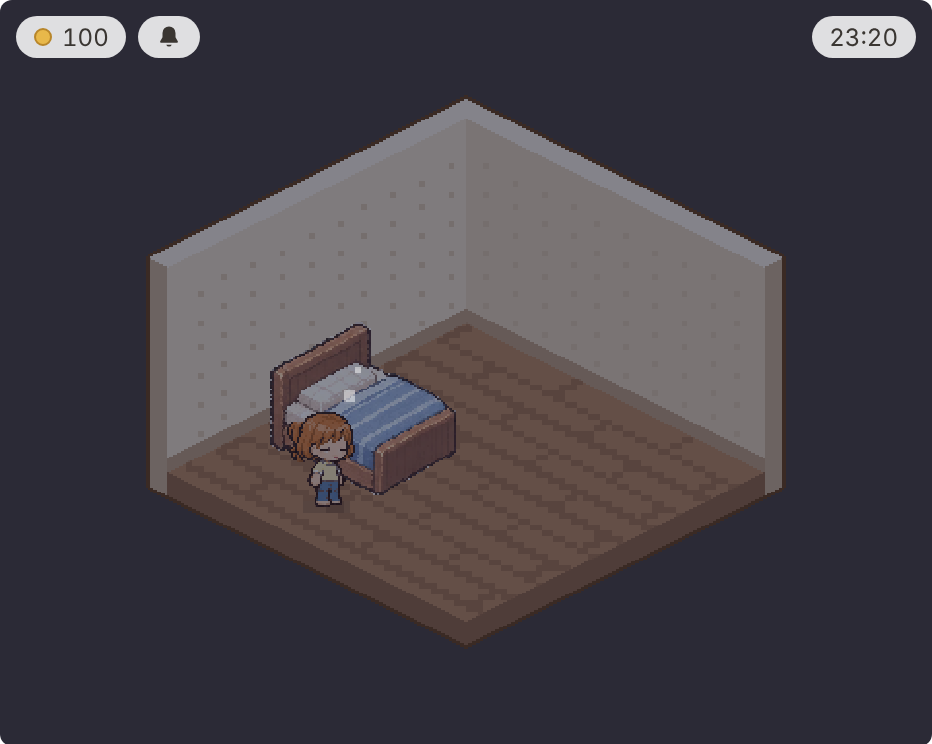
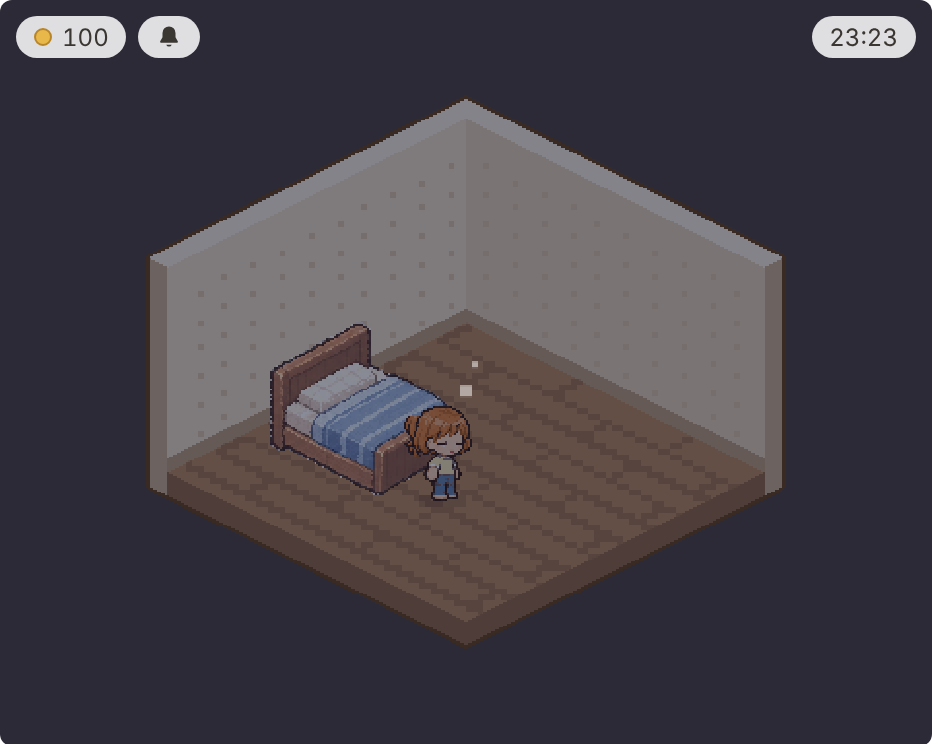
미닫이문을 바닥에 서는 문 크기로 키우고 벽 기울기에 맞게 그림 보정
Claude-Session: https://claude.ai/code/session_017aF2aZeAYzMjvegGtH2ZQ4

Changed region(s): [[0.3112, 0.5255, 0.4045, 0.6801], [0.4356, 0.5255, 0.529, 0.6801], [0.9335, 0.0309, 0.9646, 0.0618]]

diff --git a/game.js b/game.js
@@ -972,7 +972,8 @@ function makeItem(p) {
   const f = FURNITURE[p.id];
   const wall = f.type === "wall";
   const rot = wall ? 0 : p.rot != null ? p.rot : p.flip ? 1 : 0; // 예전 저장은 flip
-  return Object.assign({}, f, { id: p.id, x: p.x, y: p.y, z: p.z, flip: wall && !!p.flip, rot, closed: !!p.closed, off: p.off, lightAt: p.lightAt });
+  // 문(floorWall)은 예전 저장도 바닥으로
+  return Object.assign({}, f, { id: p.id, x: p.x, y: p.y, z: f.floorWall ? 0 : p.z, flip: wall && !!p.flip, rot, closed: !!p.closed, off: p.off, lightAt: p.lightAt });
 }
 
 function refreshItems() {
@@ -4191,7 +4192,7 @@ function rectsOverlap(p, q) {
 function wallValid(item) {
   const wall = wallOf(item), r = wallRect(item);
   if (wall === "round") return false; // 둥근 벽에는 걸 수 없음
-  if (r.a1 < 1 || r.a2 > wallLength(wall) - 1 || r.z1 < 3) return false;
+  if (r.a1 < 1 || r.a2 > wallLength(wall) - 1 || r.z1 < (item.floorWall ? 0 : 3)) return false; // 문(floorWall)은 바닥에 붙음
   const top = wall === "right" ? rightWallTop() : Math.min(leftWallTop(r.a1), leftWallTop(r.a2));
   if (r.z2 > top - 1) return false;
   if (wallObstacles(wall).some((o) => rectsOverlap(r, o))) return false;
@@ -4256,7 +4257,7 @@ function moveDrag(p) {
     orig = drag.orig;
     const da = cur.a - drag.start.a;
     const top = drag.wall === "right" ? rightWallTop() : (room.wallHeight || room.peakHeight);
-    item.z = clamp(snap(orig.z + cur.z - drag.start.z), 3 - e.z1, top - e.z2 - 1);
+    item.z = item.floorWall ? 0 : clamp(snap(orig.z + cur.z - drag.start.z), 3 - e.z1, top - e.z2 - 1);
     const len = wallLength(drag.wall);
     if (drag.wall === "right") item.x = clamp(snap(orig.x + da), 1 - e.a1, len - e.a2 - 1);
     else item.y = clamp(snap(orig.y + da), 1 - e.a1, len - e.a2 - 1);
@@ -4577,8 +4578,11 @@ function findSpot(item) {
       item.flip = wall === "left";
       // 눈높이(24)부터 아래로, 그다음 위로 찾아봅니다.
       const heights = [];
-      for (let z = 24; z >= 6; z -= GRID) heights.push(z);
-      for (let z = 26; z <= 40; z += GRID) heights.push(z);
+      if (item.floorWall) heights.push(0); // 문은 바닥에서만
+      else {
+        for (let z = 24; z >= 6; z -= GRID) heights.push(z);
+        for (let z = 26; z <= 40; z += GRID) heights.push(z);
+      }
       for (const z of heights) {
         for (let a = 2; a < wallLength(wall); a += GRID) {
           item.x = wall === "right" ? a : 0;

diff --git a/index.html b/index.html
@@ -5,7 +5,7 @@
   <meta name="viewport" content="width=device-width, initial-scale=1">
   <title>My Cozy Room</title>
   <!-- 파일 뒤의 ?v= 번호는 업데이트할 때마다 바꿉니다. (브라우저가 옛 파일을 쓰지 않도록) -->
-  <link rel="stylesheet" href="style.css?v=20261118-28">
+  <link rel="stylesheet" href="style.css?v=20261118-29">
   <!-- 화면 전환에 꼭 필요한 규칙 (디자인 파일을 늦게 받아도 화면이 섞이지 않게) -->
   <style>
     .screen { display: none; }
@@ -435,23 +435,23 @@
   </main>
 
   <!-- 순서 중요: 데이터 → 방 → 저장 → 게임 → 집중 → 첫 화면 → 로그인 -->
-  <script src="data.js?v=20261118-28"></script>
-  <script src="rooms.js?v=20261118-28"></script>
-  <script src="save.js?v=20261118-28"></script>
-  <script src="hero-art.js?v=20261118-28"></script>
-  <script src="acc-art.js?v=20261118-28"></script>
-  <script src="pet-art.js?v=20261118-28"></script>
-  <script src="outfit-art.js?v=20261118-28"></script>
-  <script src="lie-front-art.js?v=20261118-28"></script>
-  <script src="game.js?v=20261118-28"></script>
-  <script src="focus.js?v=20261118-28"></script>
-  <script src="side.js?v=20261118-28"></script>
-  <script src="start.js?v=20261118-28"></script>
-  <script src="friends.js?v=20261118-28"></script>
+  <script src="data.js?v=20261118-29"></script>
+  <script src="rooms.js?v=20261118-29"></script>
+  <script src="save.js?v=20261118-29"></script>
+  <script src="hero-art.js?v=20261118-29"></script>
+  <script src="acc-art.js?v=20261118-29"></script>
+  <script src="pet-art.js?v=20261118-29"></script>
+  <script src="outfit-art.js?v=20261118-29"></script>
+  <script src="lie-front-art.js?v=20261118-29"></script>
+  <script src="game.js?v=20261118-29"></script>
+  <script src="focus.js?v=20261118-29"></script>
+  <script src="side.js?v=20261118-29"></script>
+  <script src="start.js?v=20261118-29"></script>
+  <script src="friends.js?v=20261118-29"></script>
   <!-- 구글 로그인 (Supabase) -->
   <script src="https://cdn.jsdelivr.net/npm/@supabase/supabase-js@2.45.4/dist/umd/supabase.min.js"></script>
-  <script src="cloud.js?v=20261118-28"></script>
-  <script src="gcal.js?v=20261118-28"></script>
-  <script src="news.js?v=20261118-28"></script>
+  <script src="cloud.js?v=20261118-29"></script>
+  <script src="gcal.js?v=20261118-29"></script>
+  <script src="news.js?v=20261118-29"></script>
 </body>
 </html>

diff --git a/data.js b/data.js
@@ -1294,7 +1294,7 @@ Object.assign(FURNITURE, {
   stoneLantern: { name: "석등", category: "prop", price: 120, size: [7, 7, 17], image: "img/furn/stoneLantern.png", imageSimple: "img/furn/s/stoneLantern.png", hires: true, light: { x: 3.5, y: 3.5, z: 11, radius: 36 } },
   tsukubai: { name: "돌 물그릇", category: "prop", price: 150, size: [16, 16, 8], image: "img/furn/tsukubai.png", imageSimple: "img/furn/s/tsukubai.png", hires: true },
   sakuraVase: { name: "벚꽃 꽃병", category: "prop", price: 50, size: [5, 5, 12], image: "img/furn/sakuraVase.png", imageSimple: "img/furn/s/sakuraVase.png", hires: true, small: true, use: "water" },
-  fusuma: { name: "미닫이문", type: "wall", category: "prop", price: 120, size: [18, 1, 22], image: "img/furn/fusuma.png", imageSimple: "img/furn/s/fusuma.png", hires: true },
+  fusuma: { name: "미닫이문", type: "wall", floorWall: true, category: "prop", price: 120, size: [18, 1, 28], image: "img/furn/fusuma.png", imageSimple: "img/furn/s/fusuma.png", hires: true },
   noren: { name: "노렌", type: "wall", category: "prop", price: 80, size: [14, 1, 13], image: "img/furn/noren.png", imageSimple: "img/furn/s/noren.png", hires: true },
 });
 

diff --git a/art-src/tools/wall_door_fix.py b/art-src/tools/wall_door_fix.py
@@ -1,0 +1,21 @@
+# 벽 그림(왼쪽 벽 기준)의 기울기를 벽 기울기(가로 2 : 세로 1)로 바로잡고 높이를 늘림
+# 사용: python3 wall_door_fix.py 원본.png 출력.png 새높이(px) [가장자리줄수]
+import sys, numpy as np
+from PIL import Image
+src, out, newh = sys.argv[1], sys.argv[2], int(sys.argv[3]); keep = int(sys.argv[4]) if len(sys.argv) > 4 else 3
+a = np.array(Image.open(src).convert('RGBA')); al = a[:, :, 3] > 0; H, W = al.shape
+slope = W * 0.5
+res = np.zeros((int(slope) + newh + 2, W, 4), np.uint8)
+for x in range(W):
+    ys = np.nonzero(al[:, x])[0]
+    if not len(ys): continue
+    col = a[ys.min():ys.max() + 1, x]; n = len(col)
+    k = min(keep, n // 3)
+    mid = col[k:n - k]; m = newh - 2 * k
+    idx = np.minimum((np.arange(m) * len(mid) / m).astype(int), len(mid) - 1)  # 가운데만 늘림 (테두리 두께 유지)
+    col2 = np.concatenate([col[:k], mid[idx], col[n - k:]])
+    top = int(round((W - 1 - x) * 0.5))
+    res[top:top + len(col2), x] = col2
+ys = np.nonzero(res[:, :, 3].any(1))[0]
+Image.fromarray(res[ys.min():ys.max() + 1]).save(out)
+print(out, Image.open(out).size)
